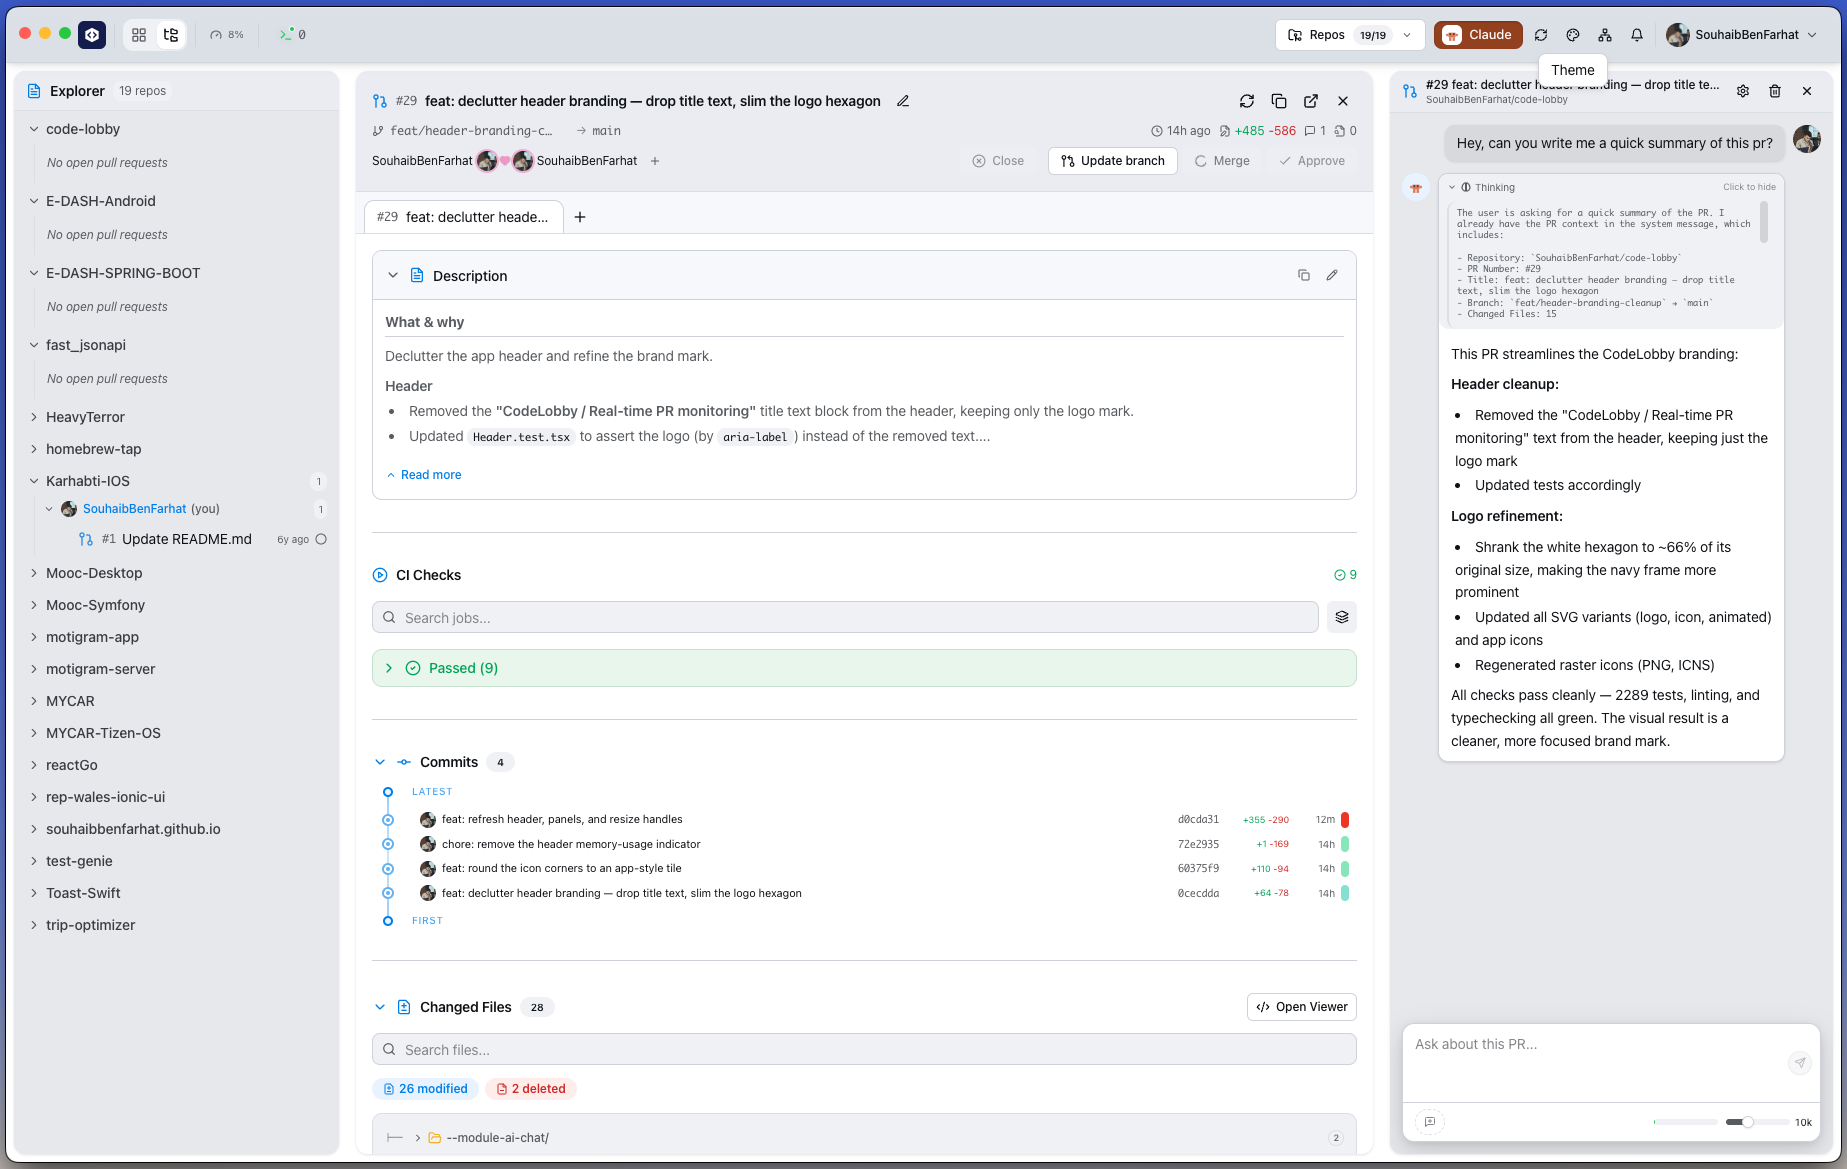
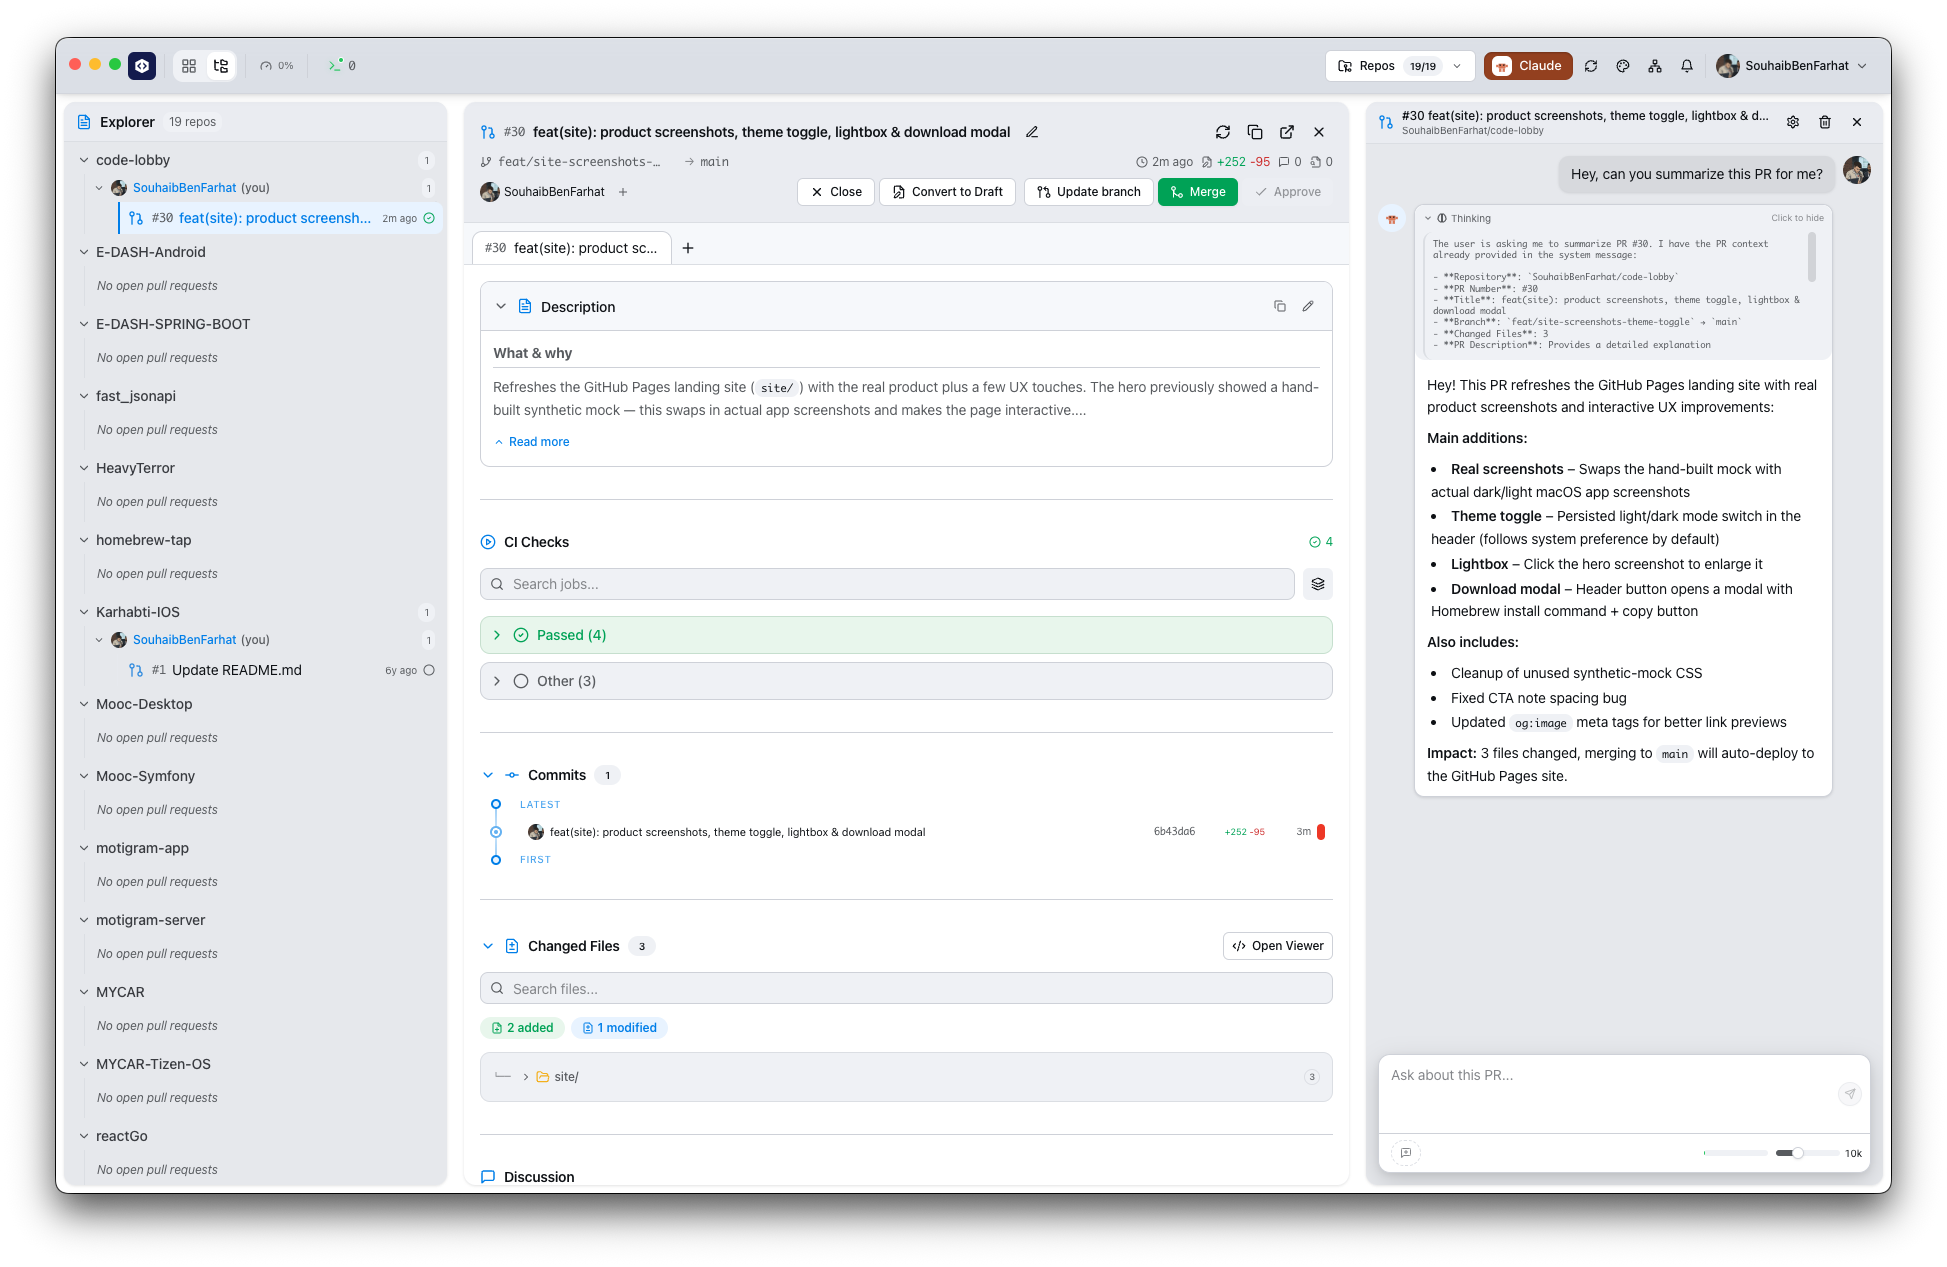
chore(site): use clean window-capture screenshots
- Replace hero screenshots with macOS window captures (transparent rounded corners + baked shadow, 1947x1267)
- Drop the now-redundant .shot / .lightbox-img border, box-shadow and radius since the window chrome is baked into the PNGs
- Update <img> dimensions and og:image meta to 1947x1267

Changed region(s): [[0.0, 0.0, 1.0, 1.0], [0.5864, 0.6467, 0.6172, 0.6775]]

diff --git a/site/index.html b/site/index.html
@@ -12,8 +12,8 @@
   <meta property="og:description" content="A PR-centric desktop app for code review, with an integrated Claude assistant." />
   <meta property="og:url" content="https://souhaibbenfarhat.github.io/code-lobby/" />
   <meta property="og:image" content="https://souhaibbenfarhat.github.io/code-lobby/screenshot-dark.png" />
-  <meta property="og:image:width" content="1844" />
-  <meta property="og:image:height" content="1161" />
+  <meta property="og:image:width" content="1947" />
+  <meta property="og:image:height" content="1267" />
   <meta name="twitter:card" content="summary_large_image" />
   <meta name="theme-color" content="#080b1a" />
 
@@ -163,14 +163,11 @@
       background: radial-gradient(60% 60% at 50% 40%, rgba(91,140,255,0.28), transparent 70%);
       filter: blur(40px);
     }
-    /* Real product screenshot (has its own window chrome baked in) */
+    /* Real product screenshot — window chrome (rounded corners + shadow) is baked into the PNG */
     .shot {
       display: block;
       width: 100%;
       height: auto;
-      border-radius: var(--radius-lg);
-      border: 1px solid var(--border-strong);
-      box-shadow: 0 40px 90px -30px rgba(0,0,0,0.8), 0 0 0 1px rgba(255,255,255,0.02) inset;
     }
     @keyframes pulse { 0%,100%{opacity:1} 50%{opacity:.35} }
 
@@ -331,8 +328,6 @@
     .overlay-close:hover, .modal-close:hover { background: rgba(255, 255, 255, 0.12); border-color: var(--border-strong); }
     .lightbox-img {
       max-width: min(1500px, 96vw); max-height: 90vh; width: auto; height: auto;
-      border-radius: 12px; border: 1px solid var(--border-strong);
-      box-shadow: 0 40px 120px -20px rgba(0, 0, 0, 0.85);
       animation: pop-in 0.2s var(--ease);
     }
     .modal-card {
@@ -460,8 +455,8 @@
               class="shot shot-dark"
               src="screenshot-dark.png"
               alt="CodeLobby's IDE view — a repository explorer on the left, full pull-request detail in the center with description and CI checks, and the built-in Claude assistant summarizing the PR on the right."
-              width="1844"
-              height="1161"
+              width="1947"
+              height="1267"
               loading="eager"
               decoding="async"
             />
@@ -469,8 +464,8 @@
               class="shot shot-light"
               src="screenshot-light.png"
               alt="CodeLobby in light mode — the repository explorer, full pull-request detail, and the built-in Claude assistant panel."
-              width="1847"
-              height="1169"
+              width="1947"
+              height="1267"
               loading="eager"
               decoding="async"
             />